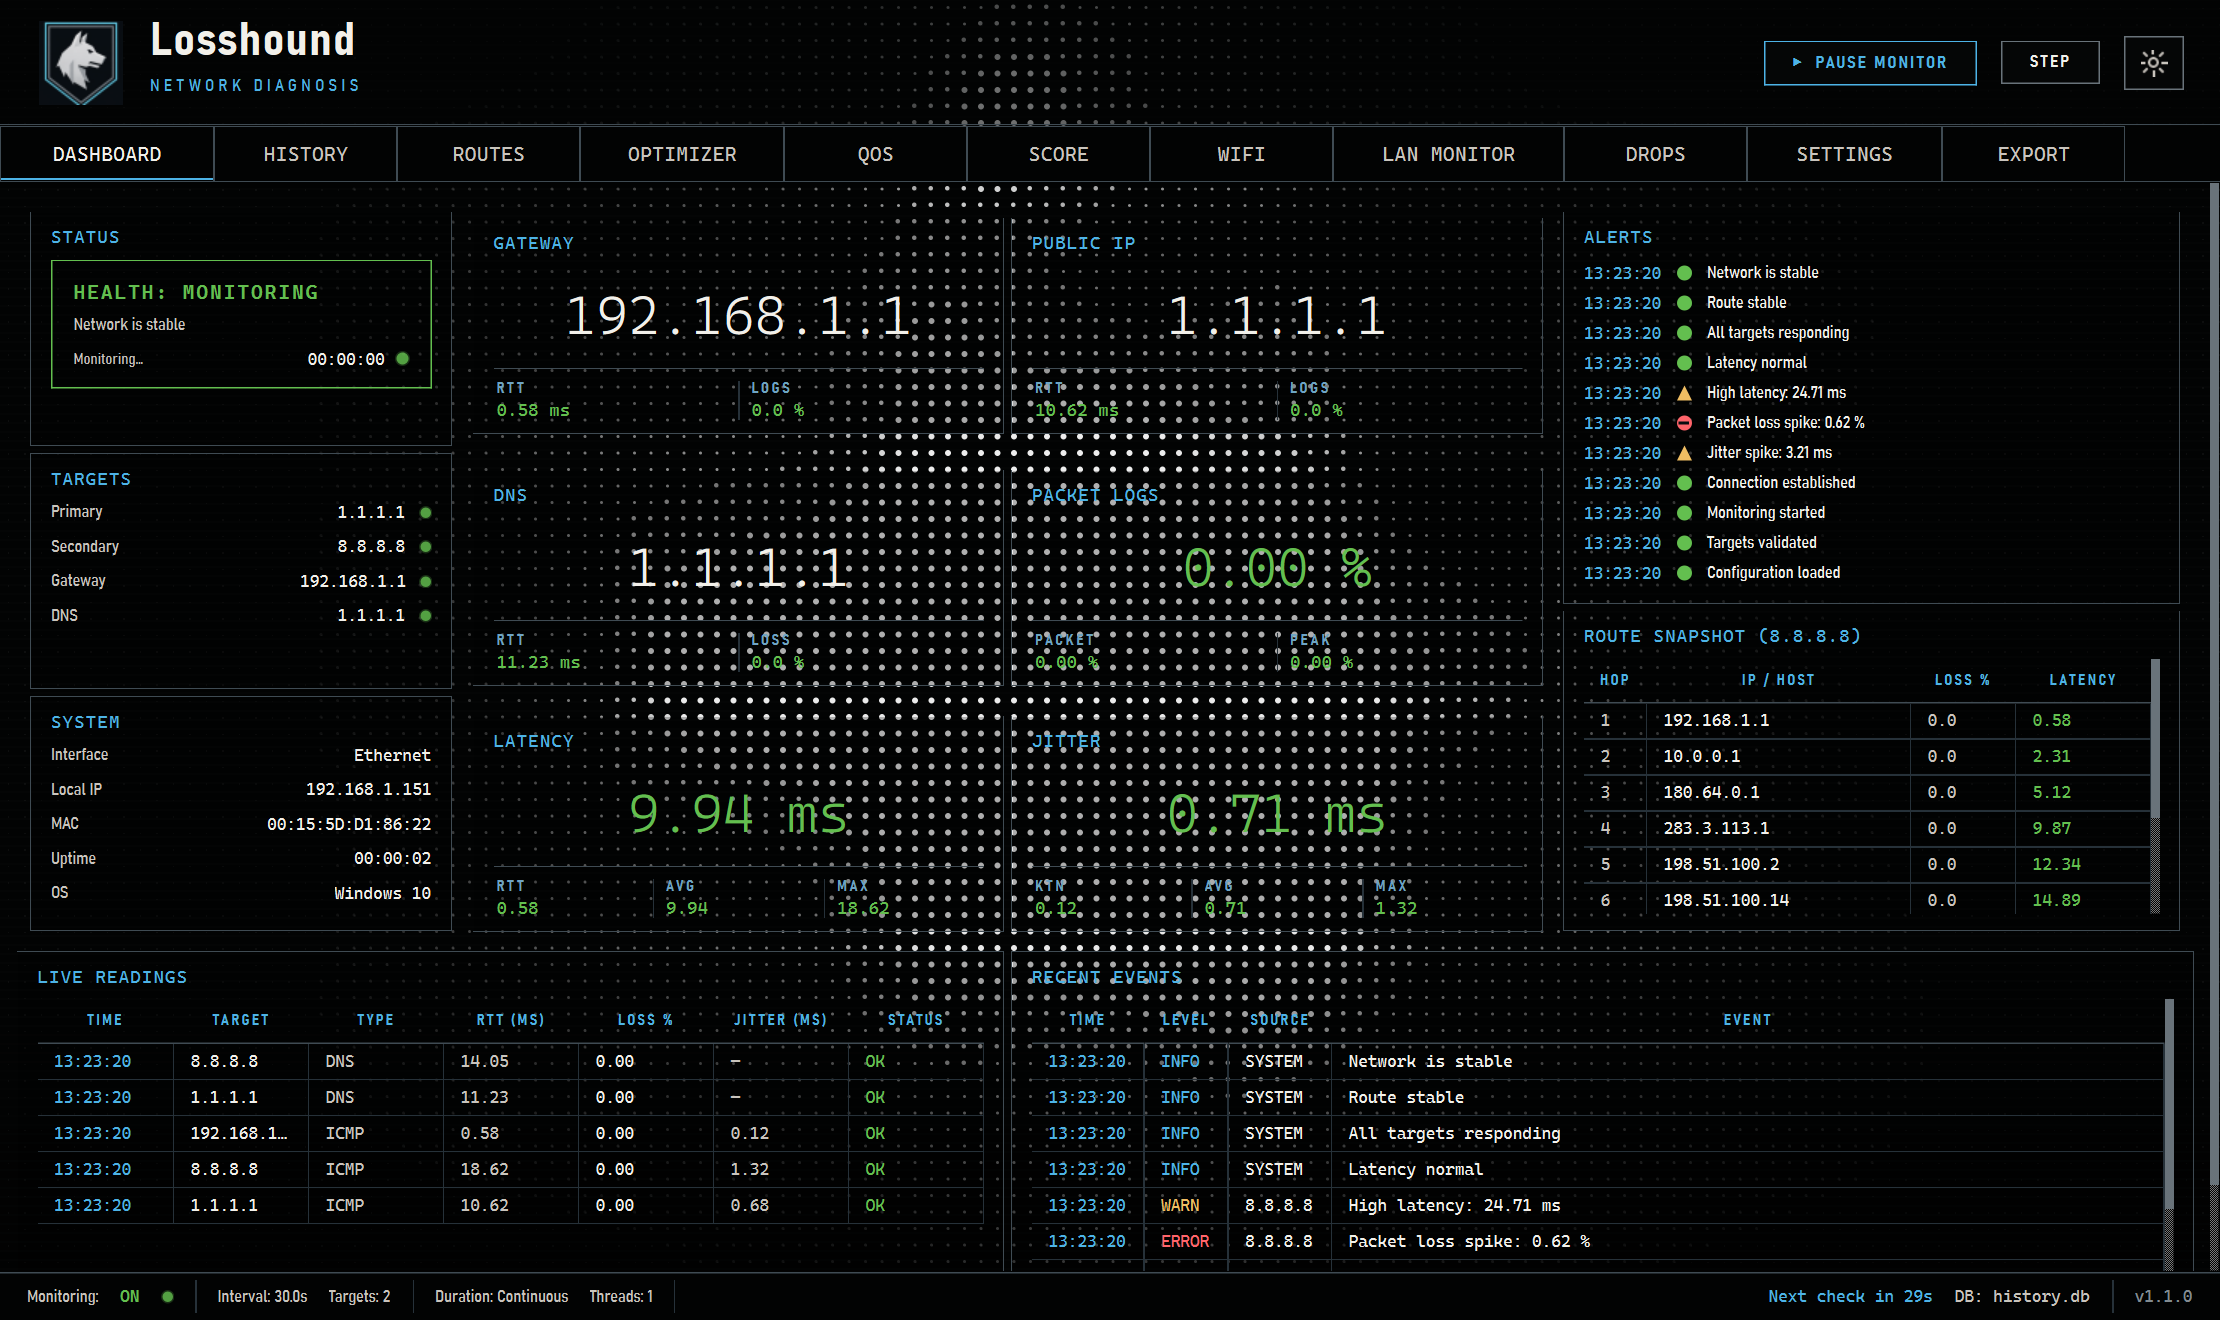
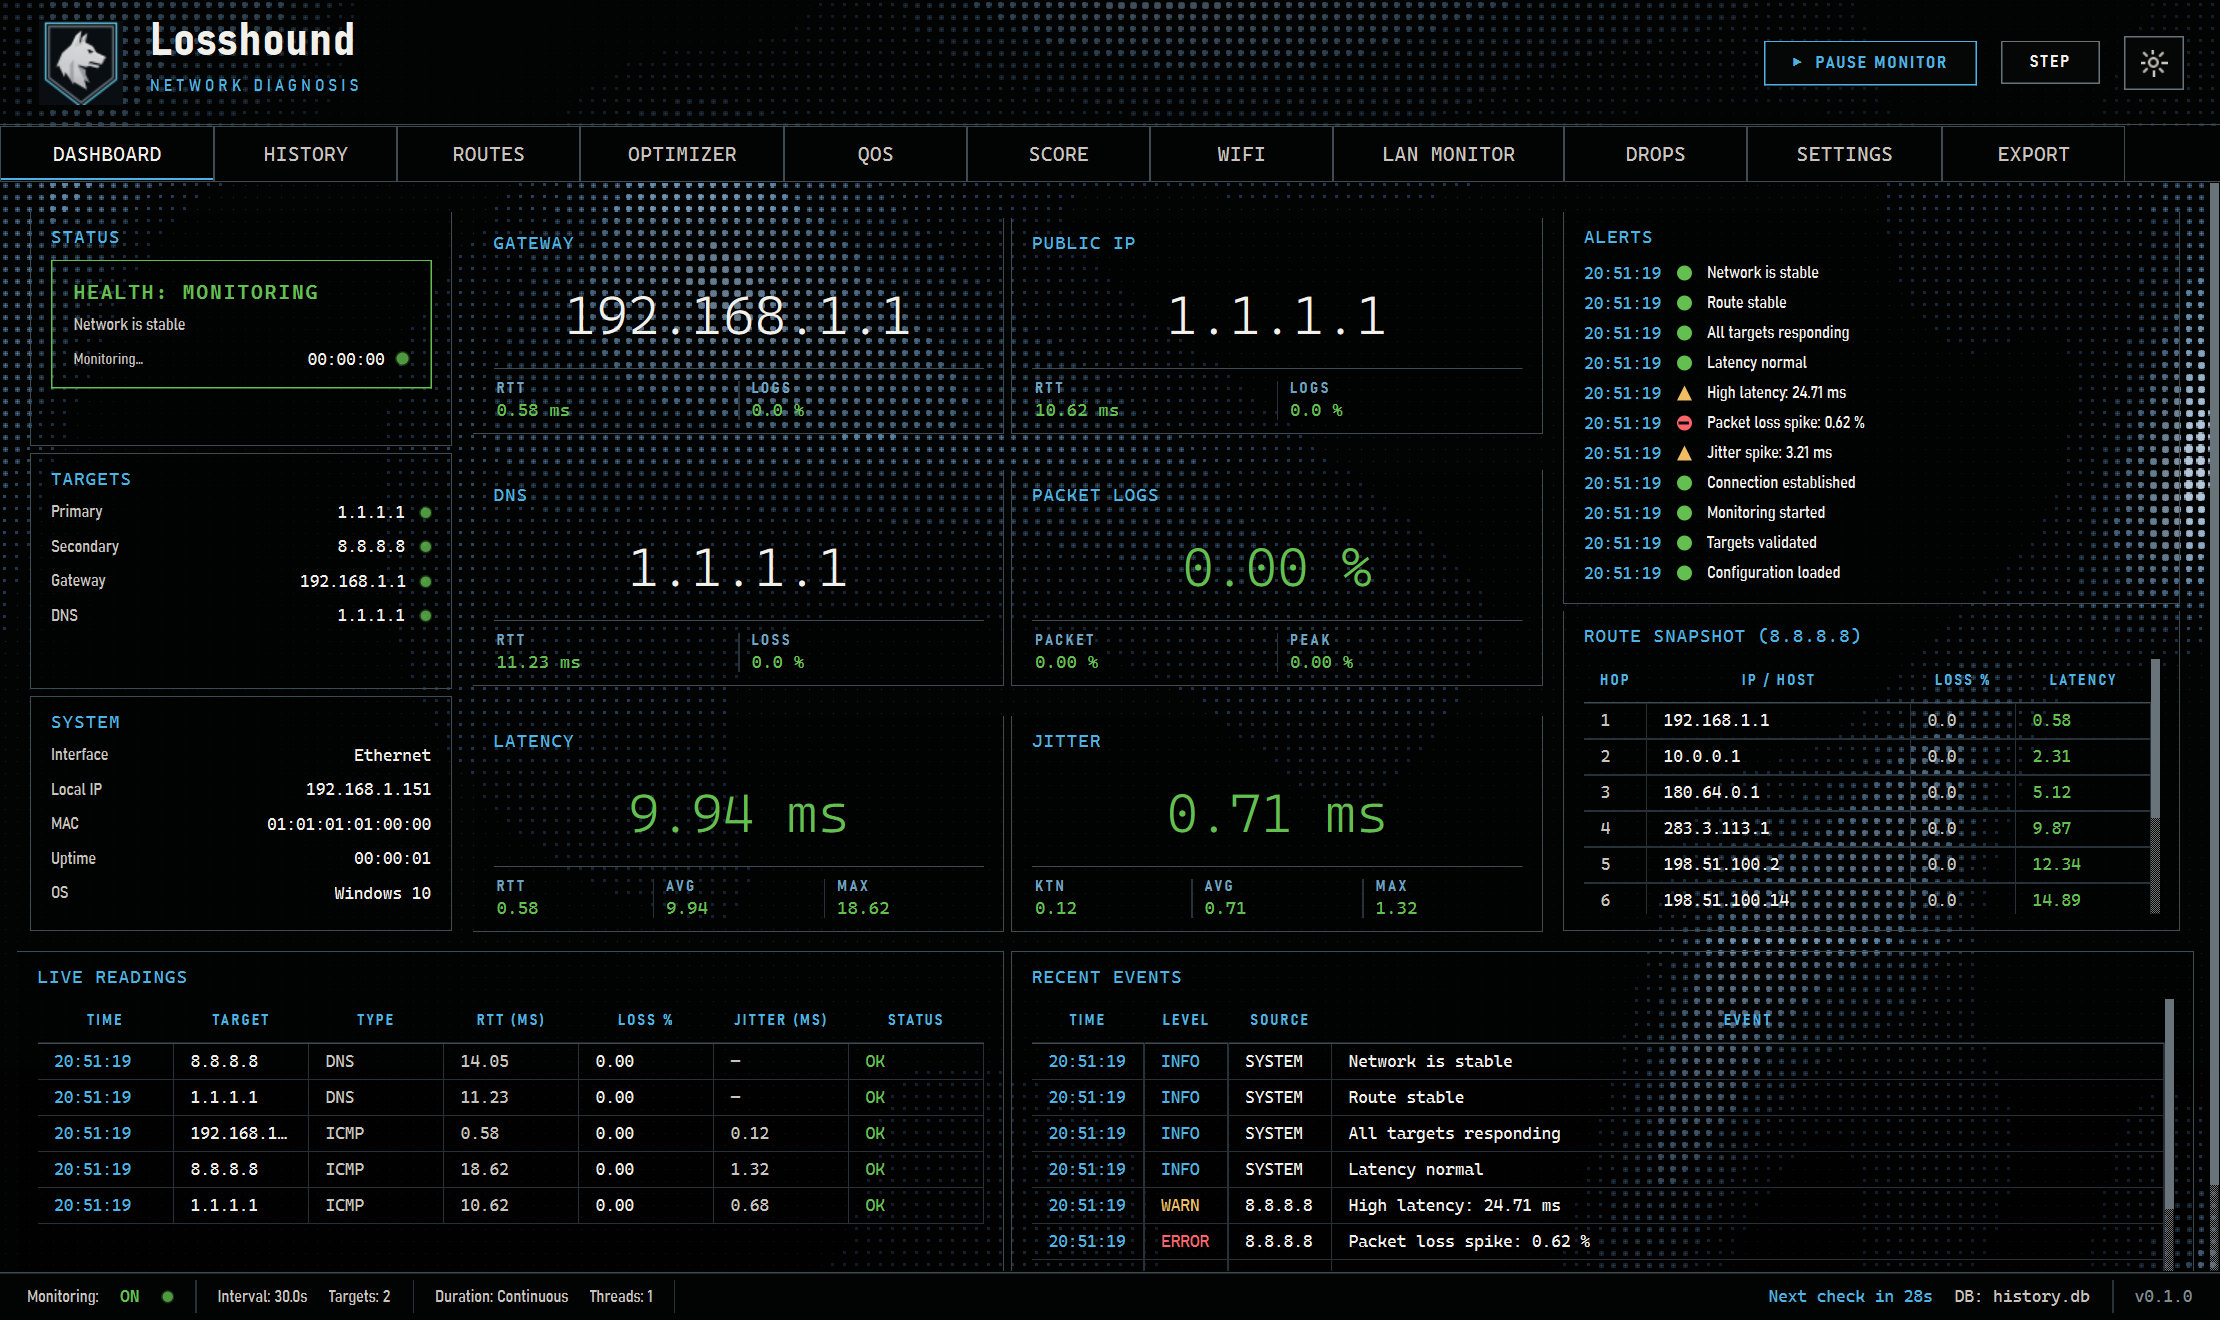
fix: source app version from __version__ and refresh README screenshot
- The status-bar footer hardcoded "v1.1.0" while the package version is
  0.1.0. Source both the footer label and the QApplication version from
  losshound.__version__ so the displayed version can no longer drift.
- Replace the README dashboard screenshot with a current one showing the
  static ocean backdrop and the corrected v0.1.0 footer. Rendered via the
  demo-data screenshot helper, so it contains only sample data — no real
  network info (public IP shown is the 1.1.1.1 ping target, MAC is a
  placeholder).

diff --git a/src/losshound/app.py b/src/losshound/app.py
@@ -3,6 +3,8 @@ from __future__ import annotations
 import argparse
 import sys
 
+from losshound import __version__
+
 
 def main():
     parser = argparse.ArgumentParser(
@@ -167,7 +169,7 @@ def _run_gui(config):
 
     app = QApplication(sys.argv)
     app.setApplicationName("Losshound")
-    app.setApplicationVersion("0.1.0")
+    app.setApplicationVersion(__version__)
     app.setWindowIcon(app_icon())
 
     window = MainWindow(config)

diff --git a/src/losshound/gui/widgets.py b/src/losshound/gui/widgets.py
@@ -16,6 +16,7 @@ from PySide6.QtWidgets import (
     QWidget,
 )
 
+from losshound import __version__
 from losshound.gui.branding import losshound_pixmap
 from losshound.gui.painted import (
     BracketedPanel,
@@ -690,7 +691,7 @@ class MonitorStatusBar(QFrame):
         row.addWidget(self._db_label)
         row.addWidget(_footer_separator())
 
-        self._version_label = QLabel("v1.1.0")
+        self._version_label = QLabel(f"v{__version__}")
         self._version_label.setStyleSheet(
             f"color: {c('text_dim')}; "
             f"font-family: {FONT_MONO_FAMILIES}; "